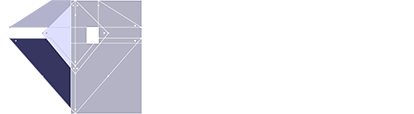
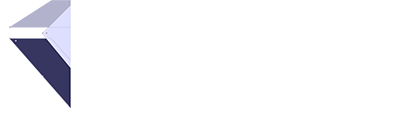
final fix

Changed region(s): [[0.1739, 0.0, 0.3478, 1.0]]

diff --git a/src/app/ieo/components/common-ieo/common-ieo.component.html b/src/app/ieo/components/common-ieo/common-ieo.component.html
@@ -234,7 +234,7 @@
         <div class="ieo-list-item {{item.status  | showStageStatus:true | lowercase}}">
           <div class="img-part">
             <div class="img-e-tao">
-              <img [src]="'assets/img/ieo/dom.png'" alt="">
+              <img [src]="'assets/img/ieo/dom-blue.png'" alt="">
             </div>
           </div>
           <div class="info-coin-part">
